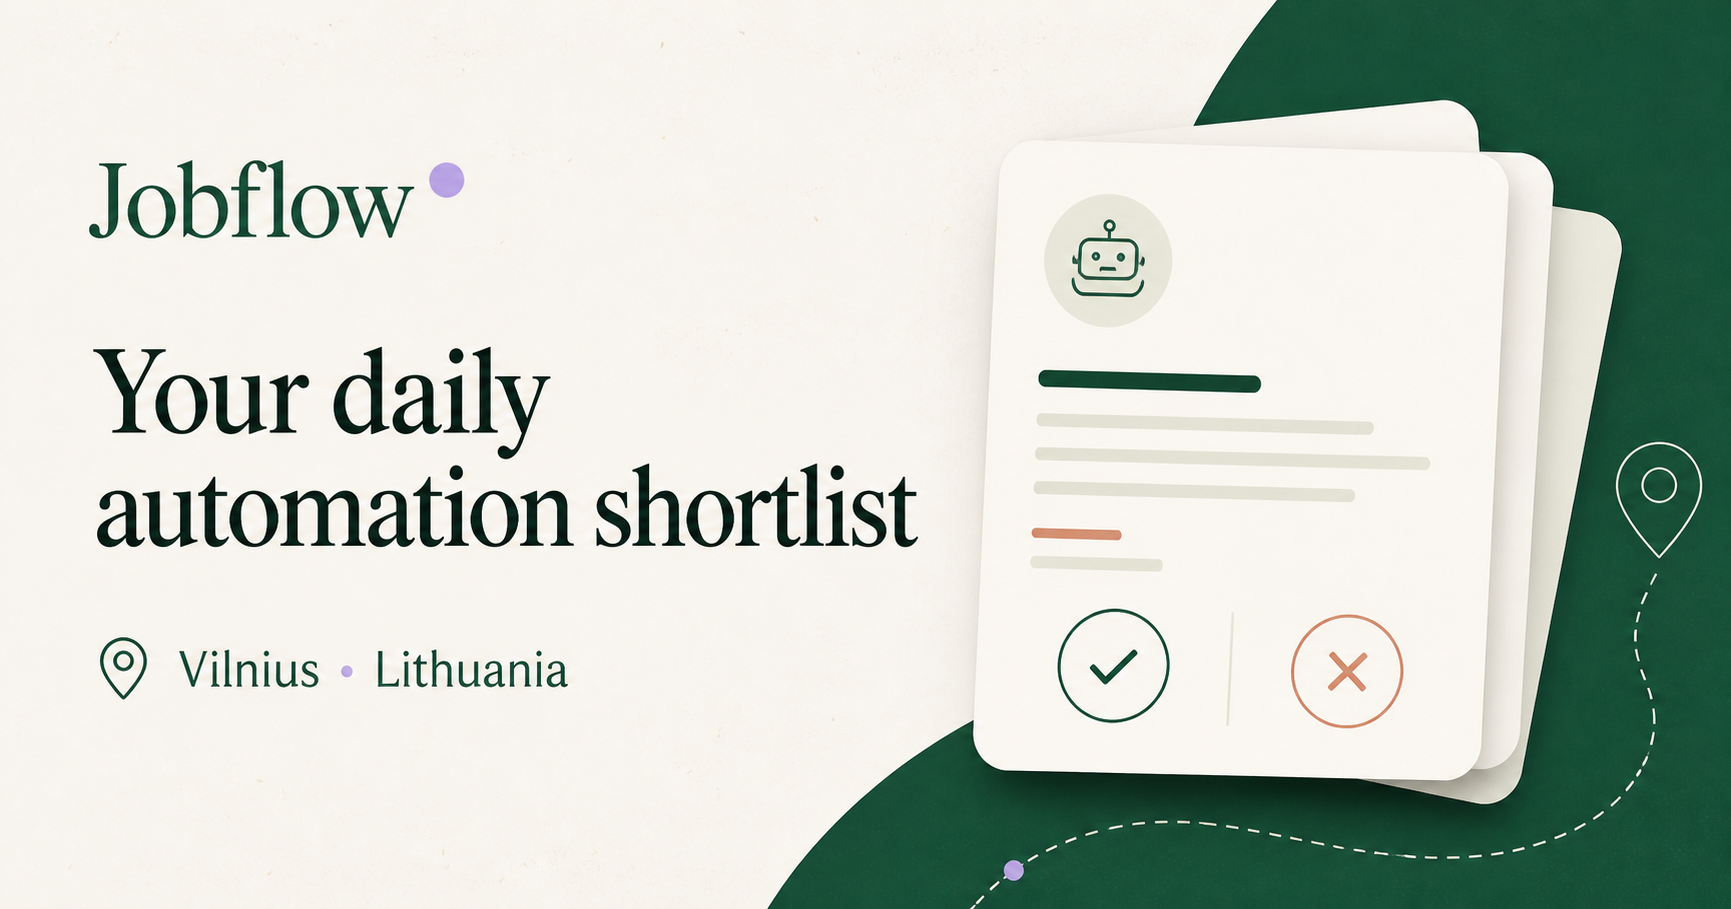
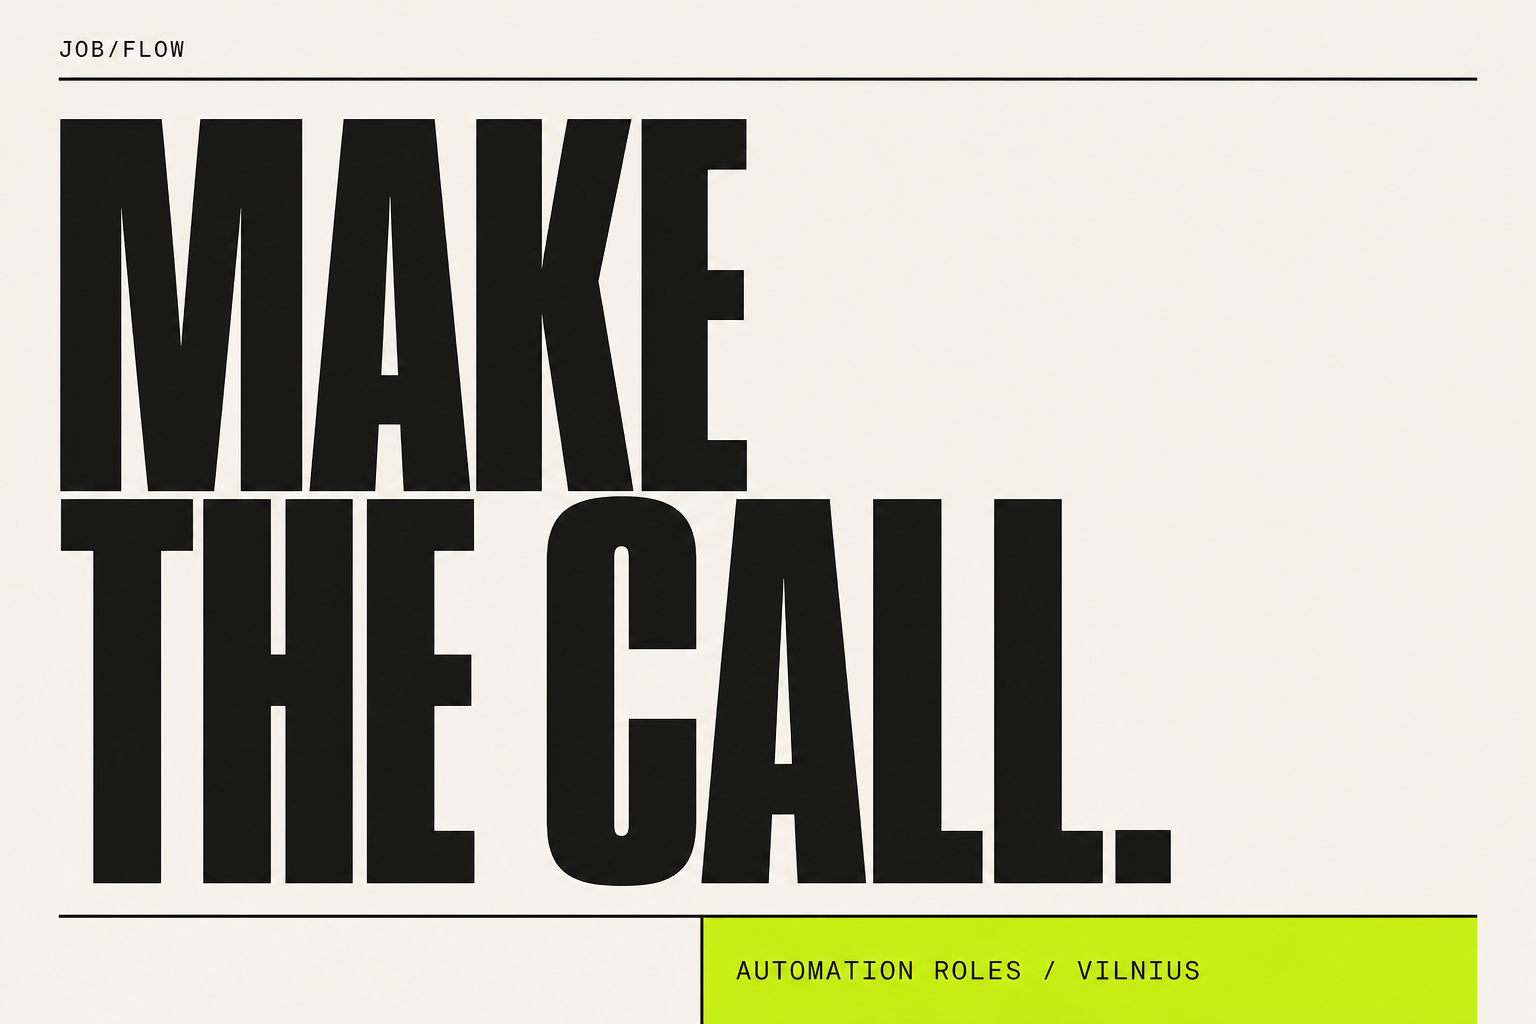
Redesign Jobflow with editorial minimalism

diff --git a/app/globals.css b/app/globals.css
@@ -1,85 +1,89 @@
 @import "tailwindcss";
 
-:root { --ink:#172019; --muted:#6f786f; --paper:#f3f4ef; --line:#dfe3dc; --green:#176b4a; }
+:root { --ink:#11120f; --paper:#f2f1e9; --muted:#6f7169; --line:#c9c9bf; --signal:#c8ff19; }
 * { box-sizing:border-box; }
-body { margin:0; background:var(--paper); color:var(--ink); font-family:Arial, Helvetica, sans-serif; -webkit-font-smoothing:antialiased; }
+html { background:var(--paper); }
+body { margin:0; color:var(--ink); background:var(--paper); font-family:Arial, Helvetica, sans-serif; -webkit-font-smoothing:antialiased; }
 button,a { font:inherit; }
 button { cursor:pointer; }
-.topbar { height:76px; background:#fff; border-bottom:1px solid var(--line); display:flex; align-items:center; justify-content:space-between; padding:0 max(24px,calc((100vw - 1060px)/2)); }
-.brand { border:0; background:none; display:flex; align-items:center; gap:11px; font-weight:750; font-size:19px; color:var(--ink); }
-.brand-mark { display:grid; place-items:center; width:34px; height:34px; color:#fff; background:var(--ink); border-radius:10px; font-family:Georgia,serif; font-style:italic; }
-.top-meta { color:var(--muted); font-size:13px; display:flex; gap:9px; align-items:center; }
-.live-dot { width:7px; height:7px; border-radius:50%; background:#31a36d; box-shadow:0 0 0 4px #dcf2e7; }
-.location-pill { background:#f3f4ef; color:#394039; padding:7px 10px; border-radius:99px; margin-left:10px; }
-.shell { width:min(100% - 32px,720px); margin:42px auto 50px; }
-.intro { display:flex; justify-content:space-between; align-items:flex-end; margin-bottom:22px; }
-.eyebrow { margin:0 0 8px; color:var(--green); font-size:11px; letter-spacing:.14em; font-weight:800; }
-h1 { margin:0; font:500 clamp(32px,5vw,45px)/1.05 Georgia,serif; letter-spacing:-.035em; }
-.counter { color:var(--muted); font-size:13px; margin:0 0 4px; }
-.tabs { display:grid; grid-template-columns:repeat(3,1fr); background:#e8eae4; border-radius:13px; padding:4px; margin-bottom:18px; }
-.tabs button { border:0; background:transparent; color:#747b73; border-radius:10px; padding:10px; font-size:13px; font-weight:700; }
-.tabs button.active { background:#fff; color:var(--ink); box-shadow:0 2px 7px #25302510; }
-.tabs span { display:inline-grid; place-items:center; min-width:20px; height:20px; margin-left:7px; padding:0 5px; border-radius:99px; background:#dfe2dc; font-size:10px; }
-.tabs .active span { background:#edf5f0; color:var(--green); }
-.job-card { --accent:#176b4a; position:relative; overflow:hidden; background:#fff; border:1px solid #e1e4de; border-radius:24px; padding:27px 30px 24px; box-shadow:0 18px 50px #20291f12; }
-.card-glow { position:absolute; top:-80px; right:-70px; width:230px; height:230px; border-radius:50%; background:color-mix(in srgb,var(--accent) 12%,transparent); filter:blur(4px); pointer-events:none; }
-.card-top { position:relative; display:flex; justify-content:space-between; color:#8a9189; font-size:11px; font-weight:700; }
-.fresh { color:var(--accent); letter-spacing:.12em; }
-.company-row { position:relative; display:flex; align-items:center; gap:12px; margin-top:28px; }
-.company-logo { flex:0 0 auto; width:43px; height:43px; border-radius:12px; display:grid; place-items:center; background:var(--accent); color:#fff; font:700 20px Georgia,serif; }
-.company-row p,.saved-copy p { margin:0 0 3px; font-size:14px; font-weight:800; }
-.company-row span,.saved-copy span { color:var(--muted); font-size:12px; }
-.job-card h2 { position:relative; margin:23px 0 16px; max-width:570px; font:500 clamp(30px,6vw,48px)/1.02 Georgia,serif; letter-spacing:-.04em; }
-.salary { display:flex; align-items:baseline; gap:9px; padding:16px 0 17px; border-top:1px solid var(--line); border-bottom:1px solid var(--line); }
-.salary small { color:var(--muted); font-size:9px; letter-spacing:.1em; font-weight:800; margin-right:auto; }
-.salary strong { color:var(--green); font-size:23px; letter-spacing:-.025em; }
-.salary span { color:var(--muted); font-size:10px; font-weight:800; }
-.summary { margin:18px 0 16px; color:#475047; font-size:14px; line-height:1.6; }
-.tags { display:flex; flex-wrap:wrap; gap:7px; }
-.tags span { padding:7px 10px; background:#f0f2ed; color:#566056; border-radius:7px; font-size:11px; font-weight:700; }
-.details { width:100%; border:0; border-top:1px solid var(--line); background:none; margin-top:19px; padding:16px 0 4px; display:flex; justify-content:space-between; color:#3c463e; font-size:12px; font-weight:800; }
-.expanded { background:#f6f7f3; border-radius:12px; padding:14px 16px; margin-top:12px; }
-.expanded ul { margin:0 0 13px; padding-left:17px; color:#525b52; font-size:12px; line-height:1.8; }
-.expanded a { color:var(--green); font-size:12px; font-weight:800; text-decoration:none; }
-.actions { display:grid; grid-template-columns:1fr 1fr; gap:12px; margin-top:19px; }
-.actions button { height:65px; border-radius:14px; display:flex; align-items:center; justify-content:center; gap:12px; font-weight:800; }
-.actions button>span { width:31px; height:31px; border-radius:50%; display:grid; place-items:center; font-size:20px; }
-.actions div { text-align:left; }
-.actions small { display:block; margin-bottom:2px; font-size:8px; letter-spacing:.12em; opacity:.65; }
-.no { border:1px solid #dcdeda; background:#fff; color:#5e665e; }
-.no>span { background:#f0f1ed; }
-.yes { border:1px solid var(--green); background:var(--green); color:#fff; box-shadow:0 8px 20px #176b4a25; }
-.yes>span { background:#ffffff1f; }
-.empty { min-height:440px; background:#fff; border:1px solid var(--line); border-radius:24px; display:flex; flex-direction:column; justify-content:center; align-items:center; text-align:center; padding:40px; }
-.empty-icon { width:58px; height:58px; display:grid; place-items:center; border-radius:50%; background:#e3f1e9; color:var(--green); font-size:25px; }
-.empty h2 { font:500 29px Georgia,serif; margin:19px 0 8px; }
-.empty p { color:var(--muted); max-width:360px; line-height:1.5; margin:0; }
-.secondary { border:1px solid var(--line); background:#fff; border-radius:9px; padding:10px 14px; margin-top:20px; }
-.spinner { width:25px; height:25px; border:3px solid #d9ded8; border-top-color:var(--green); border-radius:50%; animation:spin .8s linear infinite; margin-bottom:15px; }
+.topbar { height:68px; border-bottom:1px solid var(--ink); display:flex; align-items:center; justify-content:space-between; padding:0 max(22px,calc((100vw - 1160px)/2)); }
+.brand { border:0; background:none; color:var(--ink); font-size:15px; font-weight:900; letter-spacing:-.04em; padding:0; }
+.brand sup { margin-left:4px; font:500 8px/1 monospace; letter-spacing:.08em; vertical-align:top; }
+.top-meta { display:flex; align-items:center; gap:12px; font:600 10px/1 monospace; letter-spacing:.08em; }
+.top-meta span:first-child { color:var(--muted); }
+.live-dot { width:7px; height:7px; border-radius:50%; background:var(--signal); border:1px solid var(--ink); }
+.shell { width:min(100% - 44px,780px); margin:58px auto 44px; }
+.intro { display:flex; align-items:flex-end; justify-content:space-between; margin-bottom:32px; }
+.eyebrow { margin:0 0 12px; color:var(--muted); font:600 10px/1 monospace; letter-spacing:.09em; }
+h1 { margin:0; font-size:clamp(48px,8vw,78px); line-height:.88; font-weight:800; letter-spacing:-.075em; }
+.counter { margin:0 0 5px; font:600 10px/1 monospace; text-transform:uppercase; }
+.tabs { border-top:1px solid var(--ink); border-bottom:1px solid var(--ink); display:grid; grid-template-columns:repeat(3,1fr); margin-bottom:0; }
+.tabs button { position:relative; border:0; border-right:1px solid var(--ink); background:transparent; color:var(--muted); padding:14px 8px 13px; font:700 10px/1 monospace; letter-spacing:.07em; text-transform:uppercase; }
+.tabs button:last-child { border-right:0; }
+.tabs button.active { background:var(--ink); color:var(--paper); }
+.tabs span { margin-left:7px; font-weight:400; }
+.job-card { position:relative; background:transparent; border-bottom:1px solid var(--ink); padding:22px 0 0; }
+.card-top { display:flex; justify-content:space-between; color:var(--muted); font:600 9px/1 monospace; letter-spacing:.08em; }
+.fresh { color:var(--ink); }
+.company-row { display:flex; align-items:baseline; justify-content:space-between; gap:20px; margin-top:38px; }
+.company-row p,.saved-copy p { margin:0; font-size:16px; font-weight:800; letter-spacing:-.03em; }
+.company-row span,.saved-copy span { color:var(--muted); font:500 9px/1.4 monospace; text-transform:uppercase; }
+.job-card h2 { max-width:700px; margin:16px 0 32px; font-size:clamp(44px,8vw,74px); line-height:.91; font-weight:800; letter-spacing:-.07em; }
+.salary { border-top:1px solid var(--line); border-bottom:1px solid var(--ink); display:grid; grid-template-columns:1fr auto auto; align-items:end; gap:12px; padding:13px 0 15px; }
+.salary small { color:var(--muted); font:600 9px/1 monospace; letter-spacing:.08em; }
+.salary strong { font-size:clamp(22px,4vw,34px); line-height:.9; letter-spacing:-.055em; }
+.salary span { font:600 9px/1 monospace; }
+.summary { max-width:625px; margin:27px 0 21px; color:#3e403b; font-size:15px; line-height:1.55; letter-spacing:-.01em; }
+.tags { display:flex; flex-wrap:wrap; gap:7px; color:var(--muted); font:600 9px/1 monospace; text-transform:uppercase; }
+.tags span { white-space:nowrap; }
+.details { width:100%; border:0; border-top:1px solid var(--line); background:transparent; margin-top:28px; padding:15px 0; display:flex; justify-content:space-between; color:var(--ink); font:700 9px/1 monospace; letter-spacing:.08em; text-transform:uppercase; }
+.expanded { border-top:1px solid var(--ink); padding:18px 0 24px; }
+.expanded ul { margin:0 0 18px; padding:0; list-style:none; counter-reset:req; display:grid; gap:9px; color:#44453f; font-size:13px; }
+.expanded li::before { counter-increment:req; content:"0" counter(req) " — "; font:600 9px monospace; color:var(--muted); }
+.expanded a { color:var(--ink); font:800 10px monospace; text-decoration:underline; text-underline-offset:4px; }
+.actions { display:grid; grid-template-columns:1fr 1fr; border-top:1px solid var(--ink); margin-top:0; }
+.actions button { height:78px; border:0; border-right:1px solid var(--ink); display:flex; align-items:center; justify-content:center; gap:14px; font-weight:800; }
+.actions button:last-child { border-right:0; }
+.actions button>span { font-size:24px; font-weight:400; }
+.actions div { text-align:left; font-size:15px; }
+.actions small { display:block; margin-bottom:3px; font:600 8px/1 monospace; letter-spacing:.08em; }
+.no { background:transparent; color:var(--ink); }
+.no:hover { background:#e5e4db; }
+.yes { background:var(--signal); color:var(--ink); }
+.yes:hover { background:#b6ed00; }
+.empty { min-height:490px; border-bottom:1px solid var(--ink); display:flex; flex-direction:column; justify-content:center; align-items:flex-start; padding:60px 0; }
+.empty-icon { font-size:48px; line-height:1; }
+.empty h2 { margin:20px 0 8px; font-size:42px; line-height:.95; letter-spacing:-.055em; }
+.empty p { max-width:400px; margin:0; color:var(--muted); line-height:1.5; }
+.secondary { margin-top:24px; border:1px solid var(--ink); background:transparent; padding:12px 16px; font:700 10px monospace; text-transform:uppercase; }
+.spinner { width:18px; height:18px; border:2px solid var(--line); border-top-color:var(--ink); border-radius:50%; margin-bottom:18px; animation:spin .8s linear infinite; }
 @keyframes spin { to { transform:rotate(360deg); } }
-.saved-list { display:grid; gap:10px; }
-.saved-card { background:#fff; border:1px solid var(--line); border-radius:16px; padding:18px; display:flex; align-items:center; gap:15px; }
-.saved-copy { min-width:0; flex:1; }
-.saved-copy h2 { font:500 20px Georgia,serif; margin:2px 0 7px; white-space:nowrap; overflow:hidden; text-overflow:ellipsis; }
-.saved-copy strong { display:block; color:var(--green); font-size:13px; margin-bottom:5px; }
-.saved-actions { display:flex; flex-direction:column; align-items:flex-end; gap:8px; }
-.saved-actions a { background:var(--green); color:#fff; padding:9px 13px; border-radius:8px; text-decoration:none; font-size:12px; font-weight:800; }
-.saved-actions button { border:0; background:none; color:var(--muted); font-size:11px; }
-.research-note { text-align:center; color:#929990; font-size:10px; margin:19px 0; }
+.saved-list { border-bottom:1px solid var(--ink); }
+.saved-card { display:grid; grid-template-columns:36px 1fr auto; gap:18px; align-items:start; border-bottom:1px solid var(--line); padding:22px 0; }
+.saved-card:last-child { border-bottom:0; }
+.saved-index { font:600 9px monospace; color:var(--muted); padding-top:3px; }
+.saved-copy { min-width:0; }
+.saved-copy h2 { margin:4px 0 12px; font-size:clamp(24px,5vw,38px); line-height:.95; letter-spacing:-.055em; }
+.saved-copy strong { display:block; margin-bottom:7px; font-size:13px; }
+.saved-actions { display:flex; flex-direction:column; align-items:flex-end; gap:12px; }
+.saved-actions a { color:var(--ink); font:800 10px monospace; text-decoration:underline; text-underline-offset:4px; }
+.saved-actions button { border:0; background:none; color:var(--muted); font:600 8px monospace; }
+.research-note { margin:18px 0; color:var(--muted); font:500 8px/1.4 monospace; text-align:right; text-transform:uppercase; letter-spacing:.06em; }
 @media (max-width:600px) {
-  .topbar { height:64px; padding:0 16px; }
-  .top-meta { font-size:0; }
-  .top-meta .live-dot,.location-pill { font-size:11px; }
-  .shell { width:calc(100% - 20px); margin:25px auto 30px; }
-  .intro { padding:0 6px; }
+  .topbar { height:58px; padding:0 15px; }
+  .top-meta span:first-child { display:none; }
+  .shell { width:calc(100% - 28px); margin:34px auto 25px; }
+  .intro { margin-bottom:25px; }
   .counter { display:none; }
-  .job-card { border-radius:20px; padding:21px 20px 18px; }
-  .company-row { margin-top:22px; }
-  .job-card h2 { margin-top:20px; }
-  .salary { flex-wrap:wrap; }
-  .salary small { flex-basis:100%; }
-  .actions { position:sticky; bottom:8px; }
-  .actions button { height:60px; }
-  .saved-card { align-items:flex-start; }
-  .saved-card .company-logo { width:38px; height:38px; }
+  .company-row { display:block; margin-top:30px; }
+  .company-row span { display:block; margin-top:6px; }
+  .job-card h2 { margin:14px 0 25px; }
+  .salary { grid-template-columns:1fr auto; }
+  .salary small { grid-column:1/-1; }
+  .summary { font-size:14px; }
+  .actions { position:sticky; bottom:0; z-index:2; margin:0 -14px; border-bottom:1px solid var(--ink); background:var(--paper); }
+  .actions button { height:68px; }
+  .saved-card { grid-template-columns:24px 1fr; gap:10px; }
+  .saved-actions { grid-column:2; flex-direction:row; align-items:center; }
+  .research-note { text-align:left; }
 }

diff --git a/app/page.tsx b/app/page.tsx
@@ -162,14 +162,14 @@ export default function Home() {
     <main>
       <header className="topbar">
         <button className="brand" onClick={() => setTab("Discover")} aria-label="Go to discover">
-          <span className="brand-mark">J</span><span>Jobflow</span>
+          <span>JOB/FLOW</span><sup>LT</sup>
         </button>
-        <div className="top-meta"><span className="live-dot" />Updated today<span className="location-pill">Vilnius, LT</span></div>
+        <div className="top-meta"><span>VILNIUS</span><span className="live-dot" />11 AUG 2026</div>
       </header>
 
       <section className="shell">
         <div className="intro">
-          <div><p className="eyebrow">YOUR DAILY SHORTLIST</p><h1>{tab === "Discover" ? "Worth a look?" : tab === "Apply" ? "Ready to apply" : "Passed for now"}</h1></div>
+          <div><p className="eyebrow">AUTOMATION ROLES / DAILY EDIT</p><h1>{tab === "Discover" ? "Make the call." : tab === "Apply" ? "The shortlist." : "Not this time."}</h1></div>
           <p className="counter">{tab === "Discover" ? `${visible.length} new role${visible.length === 1 ? "" : "s"}` : `${visible.length} saved`}</p>
         </div>
 
@@ -186,19 +186,18 @@ export default function Home() {
           </div>
         ) : tab === "Discover" ? (
           <article className="job-card" style={{ "--accent": current.accent } as React.CSSProperties}>
-            <div className="card-glow" />
-            <div className="card-top"><span className="fresh">NEW</span><span>{current.posted}</span></div>
-            <div className="company-row"><div className="company-logo">{current.company.charAt(0)}</div><div><p>{current.company}</p><span>{current.location} · {current.mode}</span></div></div>
+            <div className="card-top"><span className="fresh">NEW LISTING</span><span>01 / {String(visible.length).padStart(2, "0")}</span></div>
+            <div className="company-row"><p>{current.company}</p><span>{current.location} — {current.mode} — {current.posted}</span></div>
             <h2>{current.title}</h2>
-            <div className="salary"><small>MONTHLY GROSS</small><strong>{current.salary}</strong><span>{current.salary.includes("€") ? "EUR" : ""}</span></div>
+            <div className="salary"><small>MONTHLY / GROSS</small><strong>{current.salary}</strong><span>{current.salary.includes("€") ? "EUR" : ""}</span></div>
             <p className="summary">{current.summary}</p>
-            <div className="tags">{current.tags.map(tag => <span key={tag}>{tag}</span>)}</div>
+            <div className="tags">{current.tags.map((tag, index) => <span key={tag}>{index > 0 && "/ "}{tag}</span>)}</div>
             <button className="details" onClick={() => setExpanded(expanded === current.id ? null : current.id)}>{expanded === current.id ? "Hide details" : "View requirements"}<span>{expanded === current.id ? "↑" : "↓"}</span></button>
             {expanded === current.id && <div className="expanded"><ul>{current.requirements.map(item => <li key={item}>{item}</li>)}</ul><a href={current.url} target="_blank" rel="noreferrer">Open full vacancy ↗</a></div>}
-            <div className="actions"><button className="no" onClick={() => decide(current.id, "trash")}><span>×</span><div><small>PASS</small>No, thanks</div></button><button className="yes" onClick={() => decide(current.id, "apply")}><span>✓</span><div><small>SAVE</small>Yes, apply</div></button></div>
+            <div className="actions"><button className="no" onClick={() => decide(current.id, "trash")}><span>×</span><div><small>PASS</small>No</div></button><button className="yes" onClick={() => decide(current.id, "apply")}><span>↗</span><div><small>SHORTLIST</small>Yes</div></button></div>
           </article>
         ) : (
-          <div className="saved-list">{visible.map(job => <article className="saved-card" key={job.id}><div className="company-logo" style={{ background: job.accent }}>{job.company.charAt(0)}</div><div className="saved-copy"><p>{job.company}</p><h2>{job.title}</h2><strong>{job.salary}</strong><span>{job.location} · {job.mode}</span></div><div className="saved-actions"><a href={job.url} target="_blank" rel="noreferrer">{tab === "Apply" ? "Apply ↗" : "View ↗"}</a><button onClick={() => reset(job.id)}>Undo</button></div></article>)}</div>
+          <div className="saved-list">{visible.map((job, index) => <article className="saved-card" key={job.id}><span className="saved-index">{String(index + 1).padStart(2, "0")}</span><div className="saved-copy"><p>{job.company}</p><h2>{job.title}</h2><strong>{job.salary}</strong><span>{job.location} — {job.mode}</span></div><div className="saved-actions"><a href={job.url} target="_blank" rel="noreferrer">{tab === "Apply" ? "APPLY ↗" : "VIEW ↗"}</a><button onClick={() => reset(job.id)}>UNDO</button></div></article>)}</div>
         )}
         <p className="research-note">Curated for RPA & automation roles in Lithuania · Researched 11 Aug 2026</p>
       </section>
